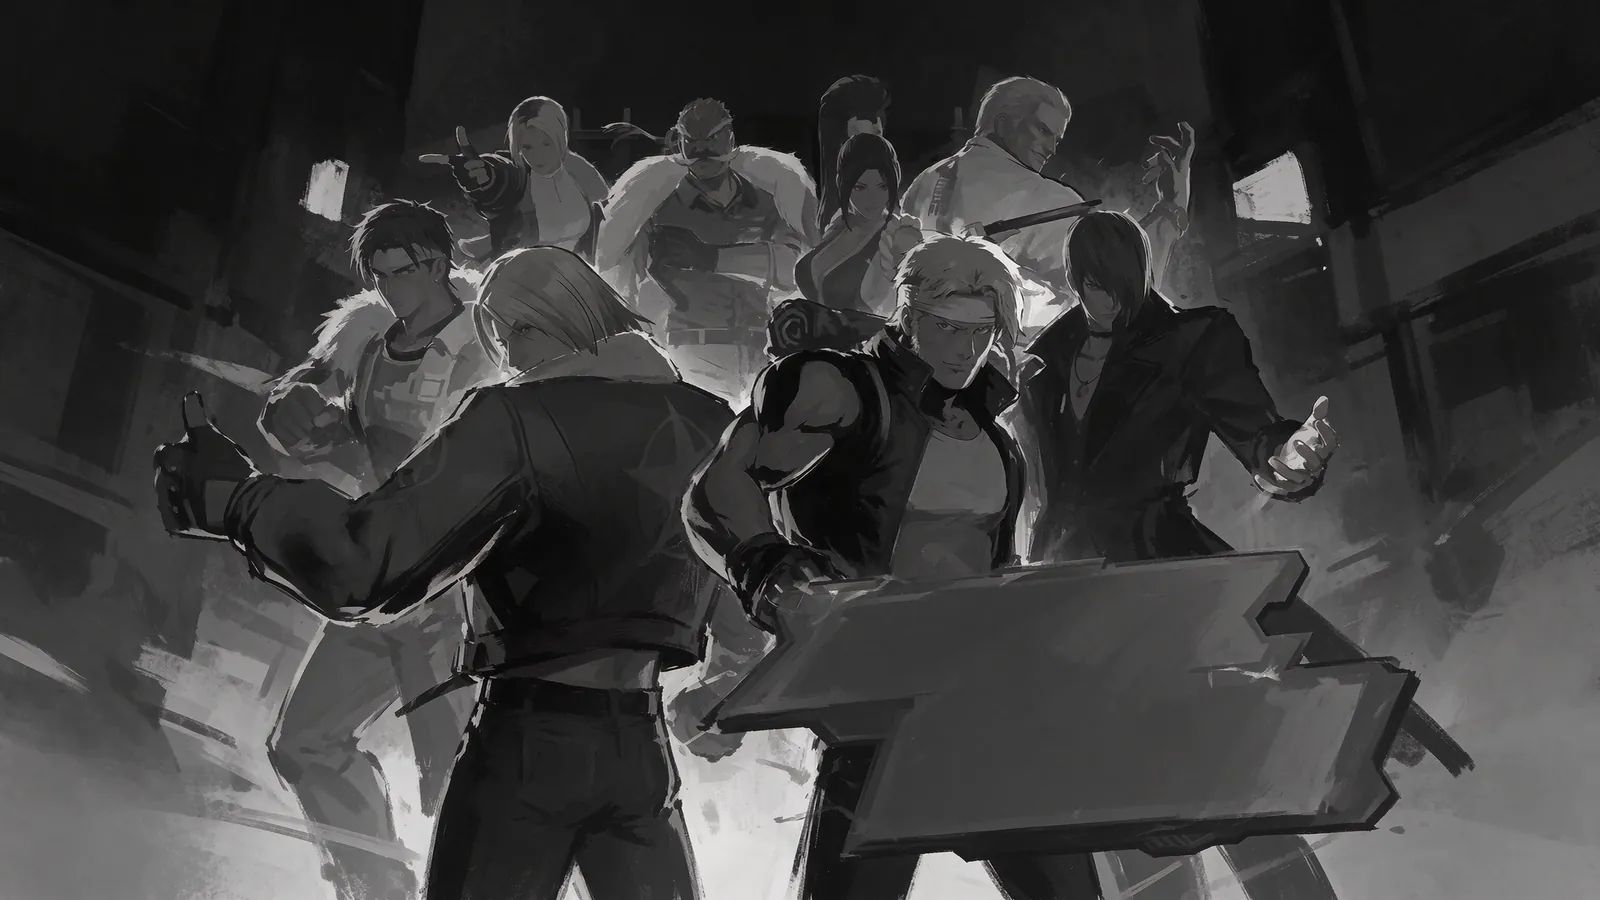
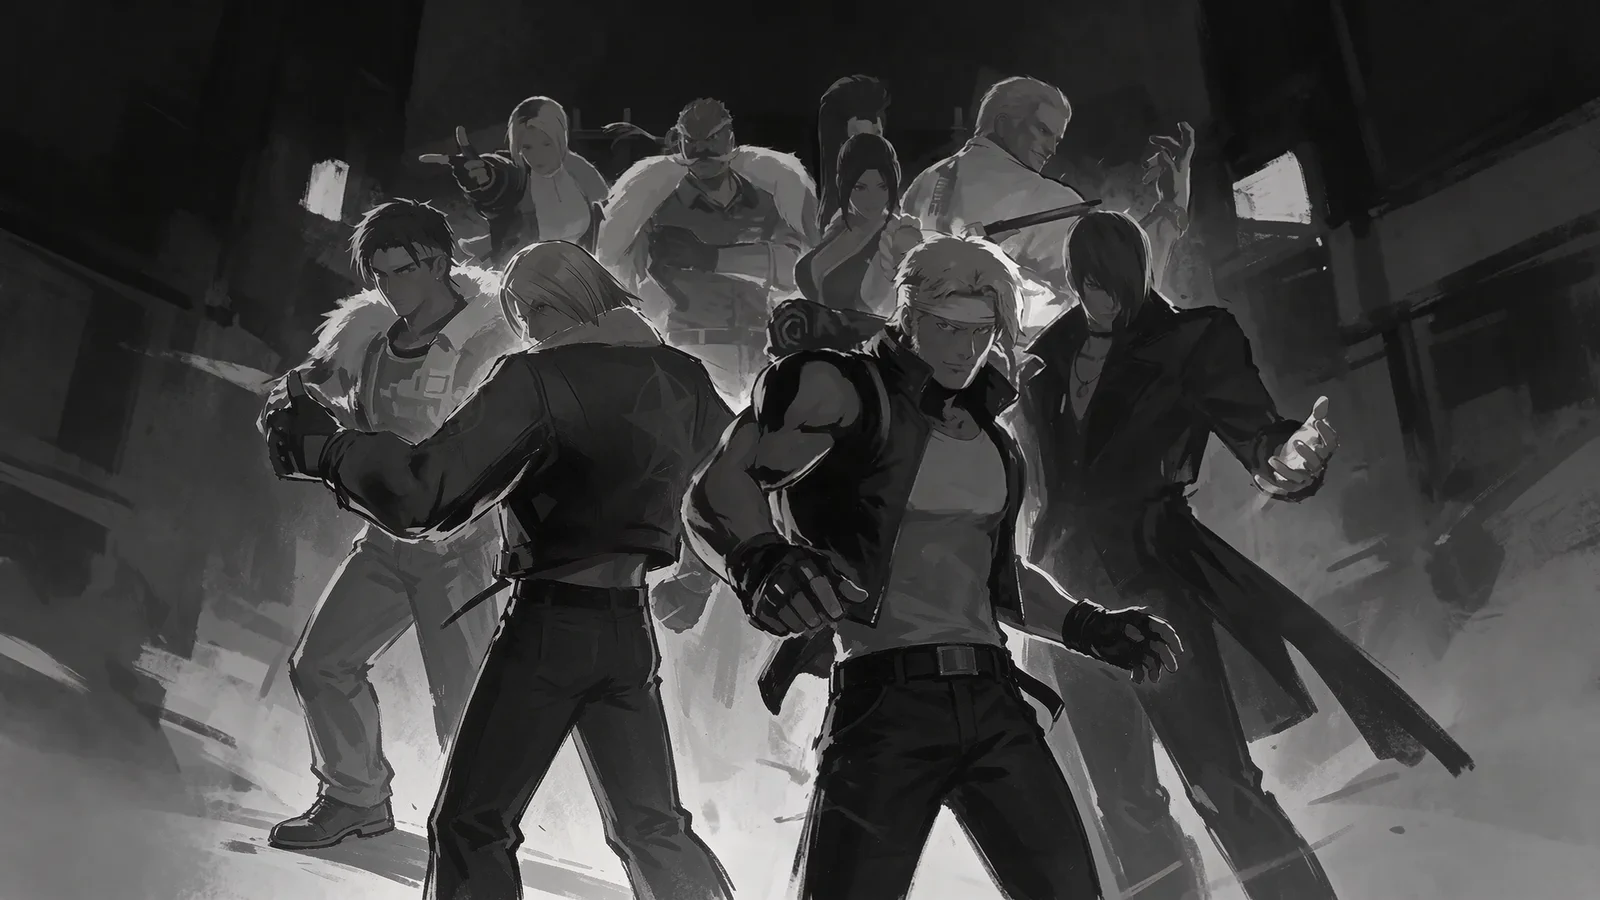
fix(snk): 线稿重画，方向2去掉前景板并补全下半身，方向3让人物落回地面

Changed region(s): [[0.0938, 0.2489, 0.9062, 1.0], [0.2188, 0.28, 0.25, 0.3422], [0.25, 0.2178, 0.2812, 0.2489]]

diff --git a/src/data/designs.ts b/src/data/designs.ts
@@ -322,7 +322,7 @@ export const designs: Record<string, DesignData> = {
         {
           image: "/design/snk/snk-mono-line.webp",
           label: "线稿 · 展台结构",
-          note: "竖版那张的底稿，画幅只裁到 16:9，地面那片铅笔排线没动。",
+          note: "同一机位重画过一遍：只留展台、桁架、警戒带和地面的线，铅笔排线与纸纹都清掉了。",
         },
       ],
       points: [
